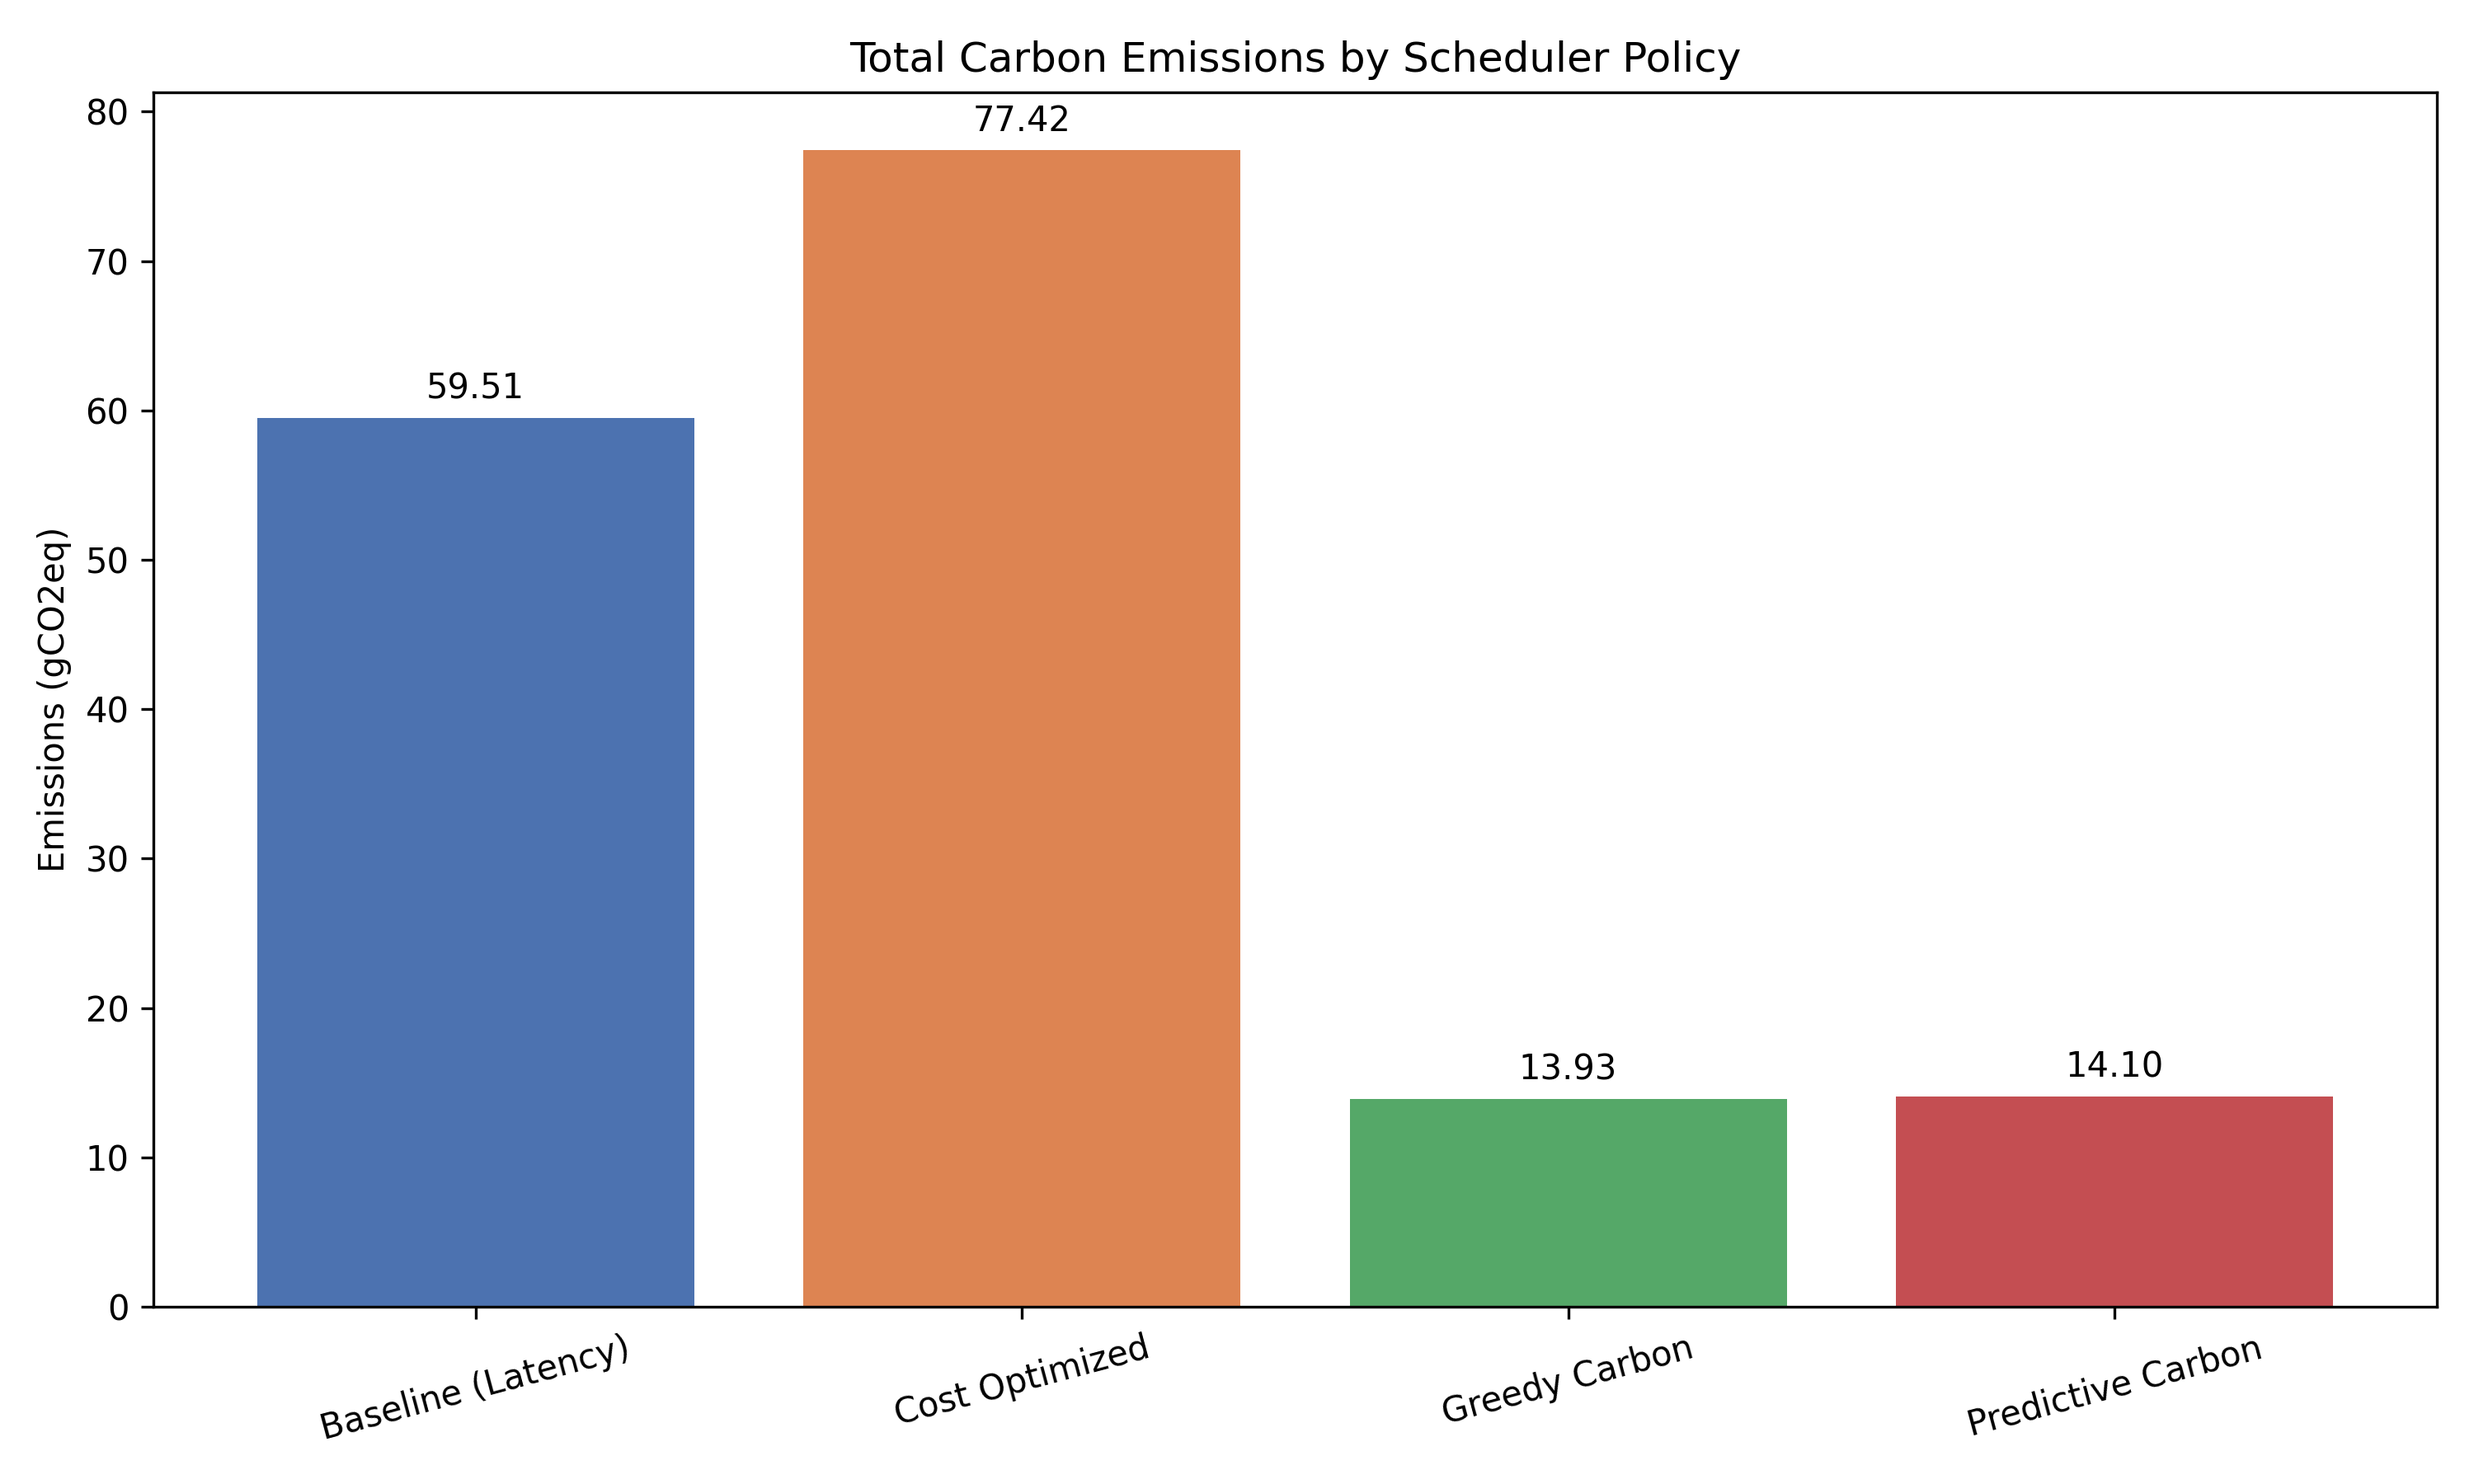
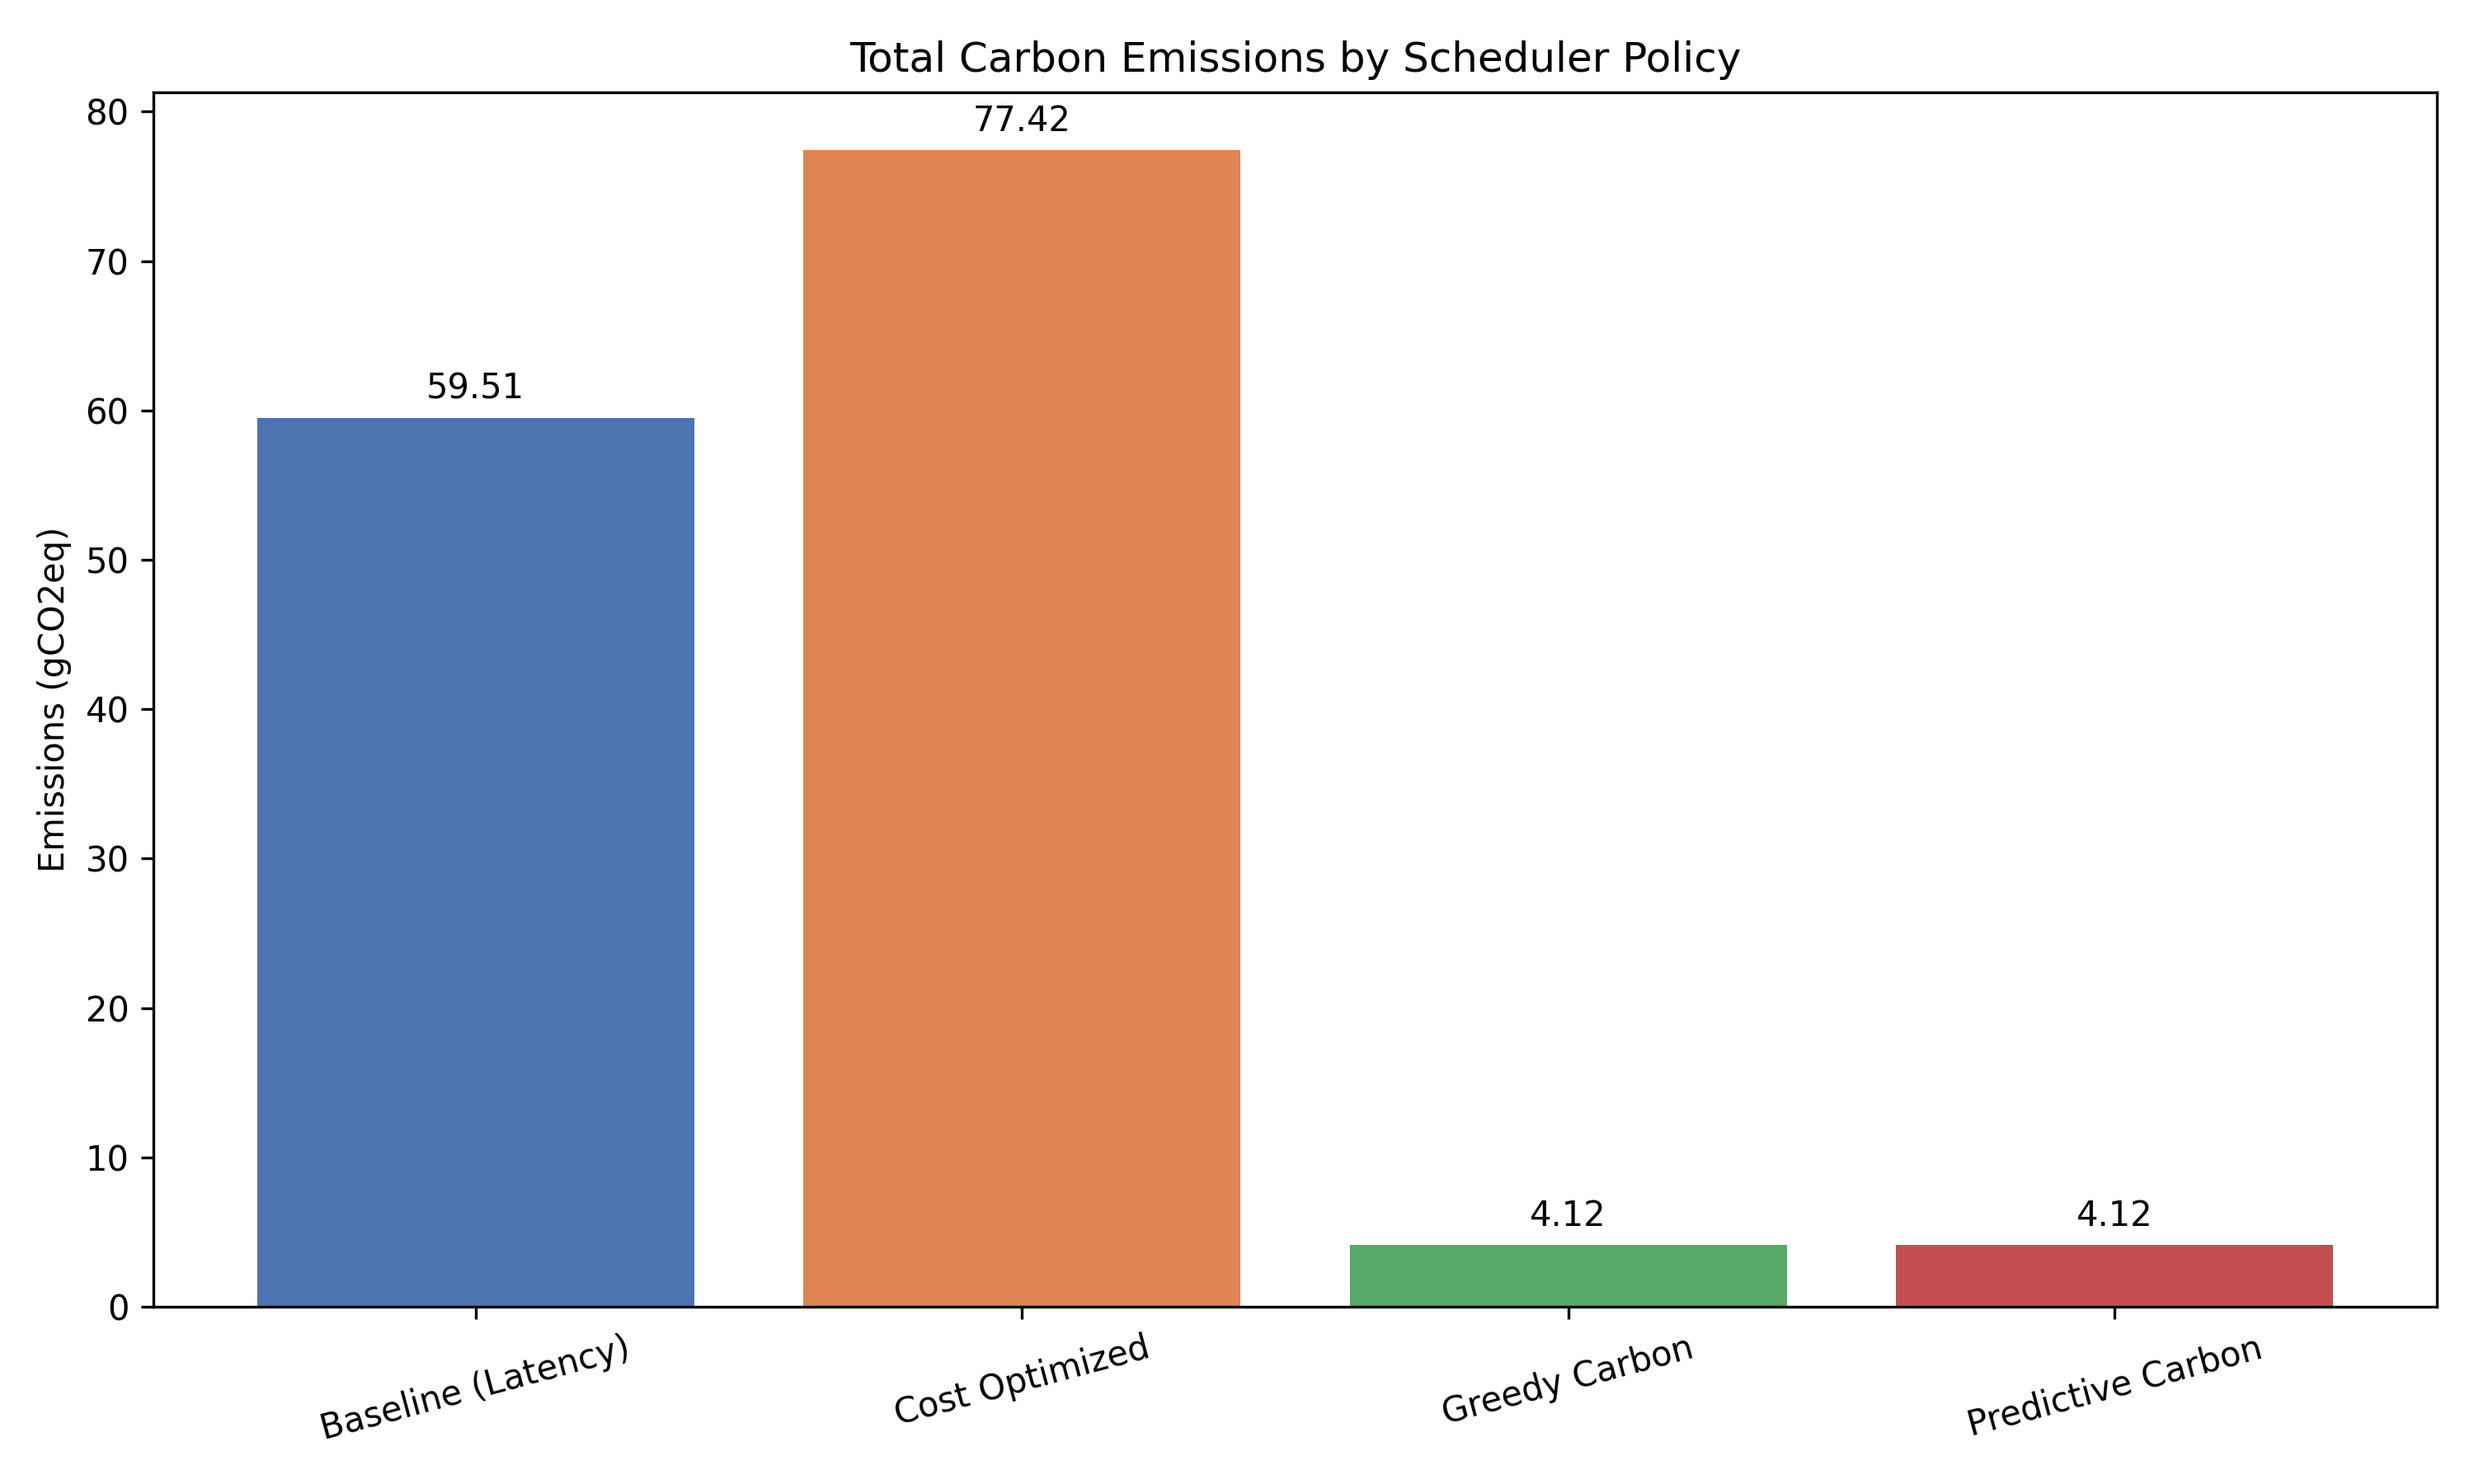
Fix multiregion zones not capturing

Changed region(s): [[0.527, 0.7156, 0.961, 0.84]]

diff --git a/scheduler/policies.py b/scheduler/policies.py
@@ -1,6 +1,6 @@
 from typing import Dict, Any, List
 from datetime import datetime
-from simulator.config import REGIONS, SLA_MAX_DELAY_HOURS
+from simulator.config import SLA_MAX_DELAY_HOURS
 
 class BaseScheduler:
     def __init__(self, cloud_env):
@@ -21,7 +21,7 @@ class LatencyOptimizedScheduler(BaseScheduler):
 class CostOptimizedScheduler(BaseScheduler):
     def schedule(self, job: Dict[str, Any]) -> tuple[str, int]:
         # Spatial shifting: Find the cheapest region
-        cheapest_region = min(REGIONS.keys(), key=lambda r: REGIONS[r]['cost_multiplier'])
+        cheapest_region = min(self.cloud_env.regions_config.keys(), key=lambda r: self.cloud_env.regions_config[r]['cost_multiplier'])
         return cheapest_region, 0
 
 class GreedyCarbonScheduler(BaseScheduler):
@@ -36,7 +36,7 @@ class GreedyCarbonScheduler(BaseScheduler):
         best_region = 'us-west-1'
         min_carbon = float('inf')
         
-        for region in REGIONS.keys():
+        for region in self.cloud_env.regions_config.keys():
             intensity = self.data_store.get_real_intensity(region, current_time)
             if intensity < min_carbon:
                 min_carbon = intensity
@@ -65,7 +65,7 @@ class PredictiveCarbonAwareScheduler(BaseScheduler):
         # Max delay in seconds
         max_delay_sec = int(SLA_MAX_DELAY_HOURS * 3600)
         
-        for region in REGIONS.keys():
+        for region in self.cloud_env.regions_config.keys():
             # Check current intensity locally/remotely
             now_intensity = self.data_store.get_real_intensity(region, current_time)
             if now_intensity < min_predicted_carbon:
